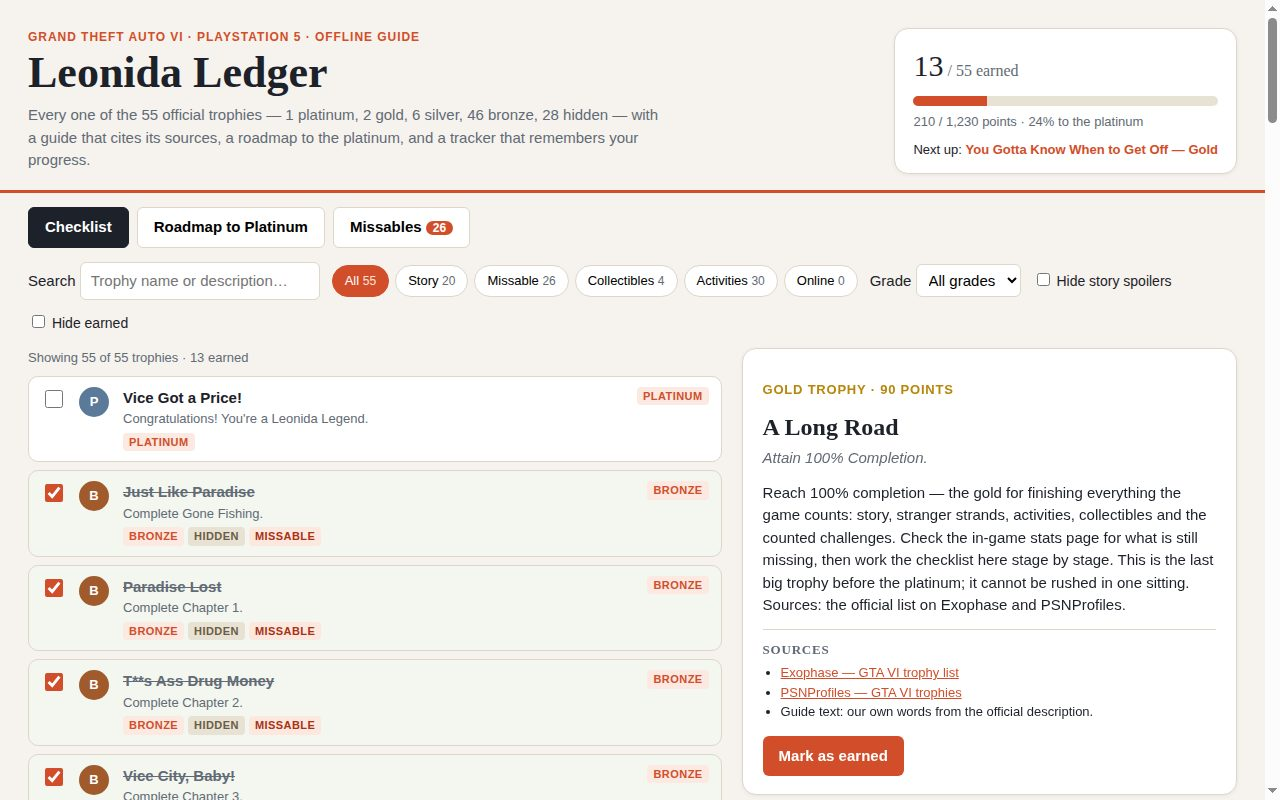
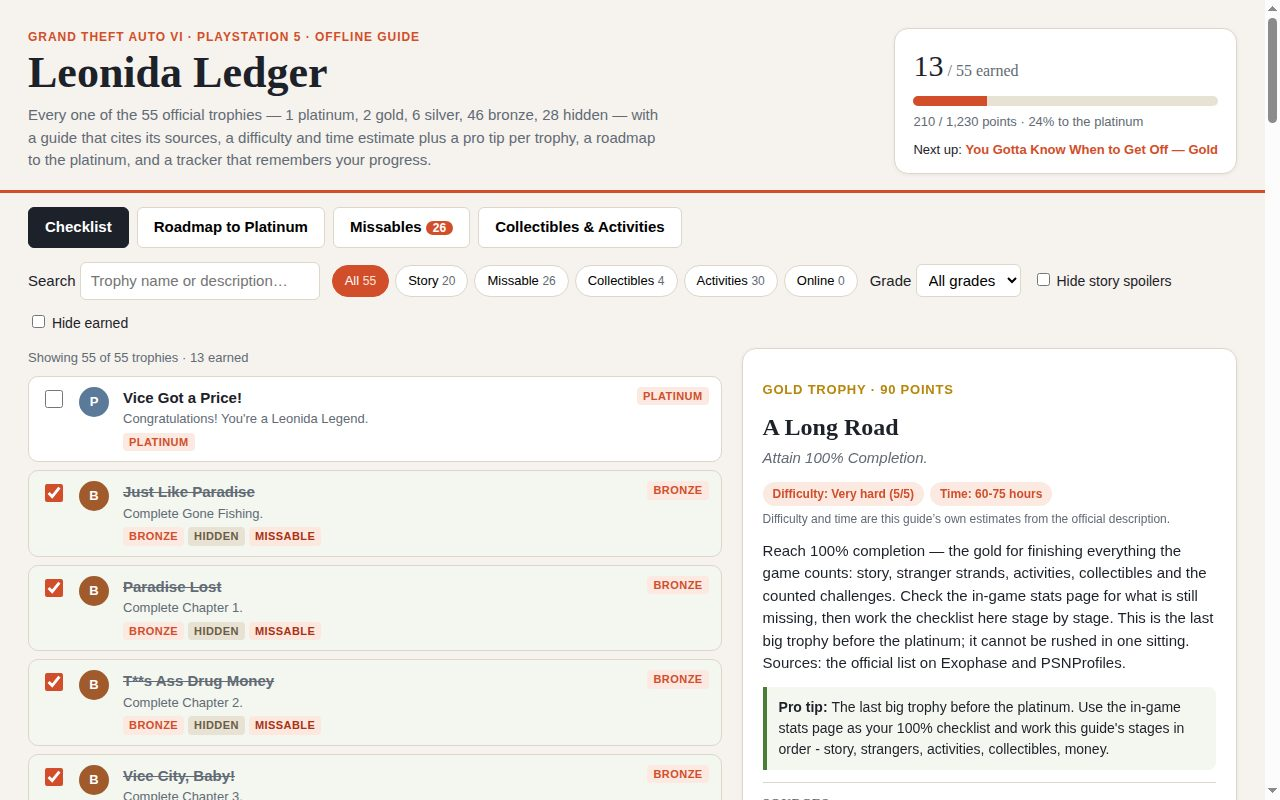
Leonida Ledger v2: deeper guides, richer roadmap, reference section
- Per-trophy difficulty (1-5), time estimate and pro tip for all 55
  trophies (app/data/trophy-notes.json), shown in the detail pane
- Missables grouped by moment with a 'how not to miss it' line on each
- Roadmap stages gain hour estimates, progress bars and interactive
  per-stage checklists (about 60-75 hours in all)
- New Collectibles & Activities reference tab: card sets, WAiNK It,
  meditation spots, vehicles, exploration; counted activities; money
- All 4 screenshots retaken of the improved UI (1280x800, 13/55 earned)

Changed region(s): [[0.5938, 0.5938, 0.9688, 1.0], [0.0312, 0.1562, 0.5, 0.2188], [0.375, 0.25, 0.5312, 0.3125]]

diff --git a/app/js/views.js b/app/js/views.js
@@ -1,6 +1,6 @@
 // trophyViews renders the checklist, the trophy detail pane (guide + sources),
 // the roadmap to the platinum and the missables page from the loaded data.
-import { ROADMAP_STAGES, trophyPoints } from './data.js';
+import { DIFFICULTY_LABEL, MISSABLE_GROUPS, ROADMAP_STAGES, trophyPoints } from './data.js';
 import { displayDescription, displayName, isSpoilerMasked, trophyMatches } from './filters.js';
 
 const GRADE_LABEL = { platinum: 'Platinum', gold: 'Gold', silver: 'Silver', bronze: 'Bronze' };
@@ -104,7 +104,26 @@ export function renderDetail(trophy, sources, store, filters, onToggle, refs) {
   } else {
     if (trophy.target) pane.append(el('p', 'detail-target', `PSN target: ${trophy.target.toLocaleString()}`));
     if (trophy.missable) pane.append(el('p', 'detail-target', '⚠ Missable — tied to a one-time story moment. See the Missables page.'));
+    if (trophy.difficulty) {
+      const chips = el('div', 'detail-chips');
+      chips.append(el('span', 'chip', `Difficulty: ${DIFFICULTY_LABEL[trophy.difficulty] ?? trophy.difficulty} (${trophy.difficulty}/5)`));
+      if (trophy.time) chips.append(el('span', 'chip', `Time: ${trophy.time}`));
+      pane.append(chips);
+      pane.append(el('p', 'chip-note', 'Difficulty and time are this guide’s own estimates from the official description.'));
+    }
     pane.append(el('p', 'detail-guide', trophy.guide));
+    if (trophy.tip) {
+      const tipBox = el('div', 'tip-box');
+      tipBox.append(el('strong', null, 'Pro tip: '));
+      tipBox.append(document.createTextNode(trophy.tip));
+      pane.append(tipBox);
+    }
+    if (trophy.avoid) {
+      const avoidBox = el('div', 'avoid-box');
+      avoidBox.append(el('strong', null, 'How not to miss it: '));
+      avoidBox.append(document.createTextNode(trophy.avoid));
+      pane.append(avoidBox);
+    }
     const srcBox = el('div', 'detail-sources');
     srcBox.append(el('h3', null, 'Sources'));
     const list = el('ul');
@@ -133,21 +152,40 @@ export function renderDetail(trophy, sources, store, filters, onToggle, refs) {
   pane.append(earnBox);
 }
 
-export function renderRoadmap(trophies, store, refs) {
+export function renderRoadmap(trophies, store, onToggle, refs) {
   const pane = refs.roadmapPane;
   pane.replaceChildren();
+  const totalHours = 'About 60–75 hours in all, our estimate — the story is most of it.';
+  pane.append(el('p', 'roadmap-total', totalHours));
   for (const stage of ROADMAP_STAGES) {
     const items = trophies.filter((t) => t.stage === stage.stage);
     const done = items.filter((t) => store.isEarned(t.name)).length;
     const box = el('section', 'stage');
     box.append(el('h2', null, stage.title));
-    const progress = el('p', null, '');
-    progress.append(el('span', 'stage-progress', `${done} / ${items.length} earned in this stage`));
-    box.append(progress);
+    const meta = el('p', 'stage-meta');
+    meta.append(el('span', 'stage-hours', `Estimated: ${stage.hours}`));
+    meta.append(document.createTextNode(' · '));
+    meta.append(el('span', 'stage-progress', `${done} / ${items.length} earned in this stage`));
+    box.append(meta);
+    const bar = el('div', 'stage-bar');
+    const fill = el('span');
+    fill.style.width = items.length ? `${Math.round((done / items.length) * 100)}%` : '0%';
+    bar.append(fill);
+    box.append(bar);
     box.append(el('p', null, stage.text));
-    const list = el('ul');
+    const list = el('ul', 'stage-checklist');
     for (const t of items) {
-      const li = el('li', store.isEarned(t.name) ? 'earned' : null, `${t.name} — ${GRADE_LABEL[t.grade]}${t.missable ? ' · Missable' : ''}`);
+      const earned = store.isEarned(t.name);
+      const li = el('li', earned ? 'earned' : null);
+      const boxInput = document.createElement('input');
+      boxInput.type = 'checkbox';
+      boxInput.checked = earned;
+      boxInput.setAttribute('aria-label', `Mark ${t.name} as earned`);
+      boxInput.addEventListener('change', () => onToggle(t.name));
+      boxInput.addEventListener('click', (event) => event.stopPropagation());
+      li.append(boxInput);
+      const label = el('span', null, `${t.name} — ${GRADE_LABEL[t.grade]}${t.missable ? ' · Missable' : ''}`);
+      li.append(label);
       list.append(li);
     }
     box.append(list);
@@ -163,18 +201,55 @@ export function renderMissables(trophies, store, refs) {
   intro.append(el('p', null, 'A trophy is flagged missable when its official description ties it to one named mission or one-time moment: a chapter, a named story mission, a stranger strand finale, or a single event that does not come back in free roam. Earn these during the moment itself — afterwards the only way back is a mission replay or a new playthrough.'));
   intro.append(el('p', null, `${trophies.filter((t) => t.missable).length} of the 55 trophies are flagged missable. Do the story missables on your first playthrough, in stage order, and check them off here as you go.`));
   pane.append(intro);
-  const list = el('ul', 'trophy-list');
-  for (const trophy of trophies.filter((t) => t.missable)) {
-    const earned = store.isEarned(trophy.name);
-    const li = el('li', `trophy-row${earned ? ' earned' : ''}`);
-    const text = el('div');
-    text.append(el('div', 'trophy-name', trophy.name));
-    text.append(el('div', 'trophy-desc', trophy.description));
-    text.append(flagRow(trophy));
-    li.append(el('span'), medal(trophy), text, el('span', 'flag grade', GRADE_LABEL[trophy.grade]));
-    list.append(li);
+  const byId = new Map(trophies.map((t) => [t.id, t]));
+  for (const group of MISSABLE_GROUPS) {
+    const groupBox = el('section', 'missable-group');
+    groupBox.append(el('h2', null, group.title));
+    groupBox.append(el('p', null, group.text));
+    const list = el('ul', 'trophy-list');
+    for (const id of group.ids) {
+      const trophy = byId.get(id);
+      if (!trophy) continue;
+      const earned = store.isEarned(trophy.name);
+      const li = el('li', `trophy-row${earned ? ' earned' : ''}`);
+      const text = el('div');
+      text.append(el('div', 'trophy-name', trophy.name));
+      text.append(el('div', 'trophy-desc', trophy.description));
+      if (trophy.avoid) {
+        const avoid = el('div', 'avoid-note');
+        avoid.append(el('strong', null, 'How not to miss it: '));
+        avoid.append(document.createTextNode(trophy.avoid));
+        text.append(avoid);
+      }
+      text.append(flagRow(trophy));
+      li.append(el('span'), medal(trophy), text, el('span', 'flag grade', GRADE_LABEL[trophy.grade]));
+      list.append(li);
+    }
+    groupBox.append(list);
+    pane.append(groupBox);
   }
-  pane.append(list);
+}
+
+export function renderReference(reference, refs) {
+  const pane = refs.referencePane;
+  pane.replaceChildren();
+  const intro = el('div', 'missable-intro');
+  intro.append(el('h2', null, 'Collectibles & activities reference'));
+  intro.append(el('p', null, 'What to find, how much of it, and where it counts — built only from the official trophy descriptions. Where a description does not pin down a count or a place, the entry says so instead of inventing one.'));
+  pane.append(intro);
+  for (const section of reference.sections ?? []) {
+    const box = el('section', 'stage');
+    box.append(el('h2', null, section.title));
+    box.append(el('p', null, section.intro));
+    for (const item of section.items ?? []) {
+      const entry = el('div', 'ref-item');
+      entry.append(el('h3', null, item.title));
+      entry.append(el('p', 'ref-counts', item.counts));
+      entry.append(el('p', null, item.tip));
+      box.append(entry);
+    }
+    pane.append(box);
+  }
 }
 
 export function renderSourceLinks(sources, refs) {

diff --git a/app/js/data.js b/app/js/data.js
@@ -1,14 +1,43 @@
 // loadTrophies fetches the official trophy list (names, descriptions, grades) plus
 // this guide's own-words guides, kinds, missable flags and roadmap stages.
 // It loads only data/trophies.json, a file inside app/ — no network at run time.
+// loadNotes fetches data/trophy-notes.json (difficulty, time estimate, tip and
+// missable-avoid line per trophy) and merges it onto the trophies by id.
+// loadReference fetches data/reference.json (collectibles / activities / money).
 export async function loadTrophies() {
   const response = await fetch('data/trophies.json');
   if (!response.ok) throw new Error('Could not load data/trophies.json');
   const doc = await response.json();
   const trophies = Array.isArray(doc) ? doc : doc.trophies;
   const sources = doc.sources ?? {};
+  const notes = await loadNotes();
+  const byId = new Map(notes.map((n) => [n.id, n]));
+  for (const trophy of trophies) {
+    const note = byId.get(trophy.id);
+    if (note) {
+      trophy.difficulty = note.difficulty;
+      trophy.time = note.time;
+      trophy.tip = note.tip;
+      trophy.avoid = note.avoid ?? null;
+    }
+  }
   return { trophies, sources };
 }
+
+export async function loadNotes() {
+  const response = await fetch('data/trophy-notes.json');
+  if (!response.ok) return [];
+  const doc = await response.json();
+  return doc.notes ?? [];
+}
+
+export async function loadReference() {
+  const response = await fetch('data/reference.json');
+  if (!response.ok) return { sections: [] };
+  return response.json();
+}
+
+export const DIFFICULTY_LABEL = { 1: 'Very easy', 2: 'Easy', 3: 'Moderate', 4: 'Hard', 5: 'Very hard' };
 
 export const GRADE_POINTS = { platinum: 180, gold: 90, silver: 30, bronze: 15 };
 
@@ -17,10 +46,18 @@ export function trophyPoints(trophy) {
 }
 
 export const ROADMAP_STAGES = [
-  { stage: 1, title: 'Stage 1 — Story first', text: 'Play Chapters 1–4 and the final mission in order. Every chapter and named-mission trophy lands here, and so do the one-shot story missables — take each named mission when it is offered.' },
-  { stage: 2, title: 'Stage 2 — Strangers & 100%', text: 'Finish the stranger mission strands (Andy, Kenton, Billy, Randy, Tyrone and three more) to unlock the Strangers & Freaks silver, then push toward 100% completion for the A Long Road gold.' },
-  { stage: 3, title: 'Stage 3 — Activities', text: 'Stunts, the Shooting Range, races, drone races, fishing, the arcade, meditation spots and the hunt — the counted activity trophies. The 42 gold medals at the range are the hardest of the set.' },
-  { stage: 4, title: 'Stage 4 — Collectibles & Leonida', text: 'Card sets, WAiNK It locations, vehicle discovery and exploring all of Leonida. One long road trip across the state moves all of these at once.' },
-  { stage: 5, title: 'Stage 5 — Money & mayhem', text: 'Partner robberies, vaults and armored trucks, the one-off moments (Ocean Beach, the showroom, the bowling alley), laundering Marked Bills, spending, garages and Scooter Bros registrations.' },
-  { stage: 6, title: 'Stage 6 — Platinum', text: 'Vice Got a Price! pops the moment the other 54 are earned. Nothing extra — just the checklist, finished.' },
+  { stage: 1, title: 'Stage 1 — Story first', hours: '25–30 hours', text: 'Play Chapters 1–4 and the final mission in order. Every chapter and named-mission trophy lands here, and so do the one-shot story missables — take each named mission when it is offered.' },
+  { stage: 2, title: 'Stage 2 — Strangers & 100%', hours: '8–10 hours', text: 'Finish the stranger mission strands (Andy, Kenton, Billy, Randy, Tyrone and three more) to unlock the Strangers & Freaks silver, then push toward 100% completion for the A Long Road gold.' },
+  { stage: 3, title: 'Stage 3 — Activities', hours: '10–14 hours', text: 'Stunts, the Shooting Range, races, drone races, fishing, the arcade, meditation spots and the hunt — the counted activity trophies. The 42 gold medals at the range are the hardest of the set.' },
+  { stage: 4, title: 'Stage 4 — Collectibles & Leonida', hours: '8–10 hours', text: 'Card sets, WAiNK It locations, vehicle discovery and exploring all of Leonida. One long road trip across the state moves all of these at once.' },
+  { stage: 5, title: 'Stage 5 — Money & mayhem', hours: '8–10 hours', text: 'Partner robberies, vaults and armored trucks, the one-off moments (Ocean Beach, the showroom, the bowling alley), laundering Marked Bills, spending, garages and Scooter Bros registrations.' },
+  { stage: 6, title: 'Stage 6 — Platinum', hours: 'Pops with the rest', text: 'Vice Got a Price! pops the moment the other 54 are earned. Nothing extra — just the checklist, finished.' },
+];
+
+// Missable trophies grouped by the one-time moment that can pass them by, so a
+// player sees at a glance which kind of moment each one hangs on.
+export const MISSABLE_GROUPS = [
+  { title: 'Story chapters & named missions', ids: [2, 3, 4, 5, 6, 7, 8, 9, 10, 11, 12, 13, 48], text: 'Chapter trophies and one-shot named missions. Each fires once, on that mission or chapter — take the mission when the story offers it and play it to the end.' },
+  { title: 'Stranger strand finales', ids: [22, 23, 24, 26, 27], text: 'The final mission of a stranger strand. Play each strand to its end before the endgame — a strand left half-done also stalls the Strangers & Freaks silver.' },
+  { title: 'One-off free-roam moments', ids: [33, 34, 37, 44, 45, 46, 49, 50], text: 'Single moments in free roam that do not come back as missions: a partner escape, a robbery streak, a take-off, a cocktail, a showroom smash, a bowling game, a second attempt, a strange event. Do them while you are passing, not after the story.' },
 ];

diff --git a/app/css/base.css b/app/css/base.css
@@ -119,6 +119,12 @@ h1, h2, h3, .serif { font-family: "Iowan Old Style", Palatino, Georgia, serif; }
 .detail-grade.bronze { color: var(--bronze); }
 .detail-desc { color: var(--muted); font-style: italic; margin: 6px 0 12px; }
 .detail-guide { margin: 0 0 12px; }
+.detail-chips { display: flex; gap: 6px; flex-wrap: wrap; margin: 0 0 4px; }
+.chip { font-size: 12px; font-weight: 700; border-radius: 20px; padding: 3px 10px; background: var(--accent-soft); color: var(--accent); }
+.chip-note { font-size: 12px; color: var(--muted); margin: 0 0 12px; }
+.tip-box { background: #f3f7f0; border-left: 4px solid #4a7c3a; border-radius: 0 8px 8px 0; padding: 10px 12px; margin: 0 0 12px; font-size: 14px; }
+.avoid-box { background: #fde8e0; border-left: 4px solid var(--accent); border-radius: 0 8px 8px 0; padding: 10px 12px; margin: 0 0 12px; font-size: 14px; }
+.avoid-note { color: #7a2c12; font-size: 13px; margin-top: 4px; }
 .detail-target { margin: 0 0 12px; font-weight: 600; }
 .detail-sources { border-top: 1px solid var(--line); padding-top: 10px; font-size: 13px; }
 .detail-sources h3 { margin: 0 0 4px; font-size: 13px; text-transform: uppercase; letter-spacing: .06em; color: var(--muted); }
@@ -128,13 +134,28 @@ h1, h2, h3, .serif { font-family: "Iowan Old Style", Palatino, Georgia, serif; }
 .detail-earn button { font: inherit; font-weight: 700; background: var(--accent); color: #fff; border: none; border-radius: 6px; padding: 9px 16px; cursor: pointer; }
 .detail-earn button.earned { background: var(--ink); }
 .spoiler-mask { color: var(--muted); font-style: italic; }
-.roadmap-pane, .missables-pane { padding: 0 28px 20px; }
+.roadmap-pane, .missables-pane, .reference-pane { padding: 0 28px 20px; }
+.roadmap-total { background: var(--card); border: 1px solid var(--line); border-radius: var(--radius); padding: 12px 18px; margin: 0 0 12px; font-weight: 600; }
 .stage { background: var(--card); border: 1px solid var(--line); border-radius: var(--radius); padding: 16px 20px; margin-bottom: 12px; }
 .stage h2 { margin: 0 0 4px; font-size: 21px; }
 .stage p { margin: 0 0 8px; color: var(--muted); }
 .stage ul { margin: 0; padding-left: 20px; }
 .stage li.earned { color: var(--muted); text-decoration: line-through; }
 .stage .stage-progress { font-weight: 700; color: var(--accent); }
+.stage-meta { margin: 0 0 8px; }
+.stage-hours { font-weight: 700; color: var(--ink); }
+.stage-bar { height: 8px; background: #e8e2d5; border-radius: 6px; overflow: hidden; margin: 0 0 10px; }
+.stage-bar span { display: block; height: 100%; background: var(--accent); }
+.stage-checklist { list-style: none; padding-left: 0; }
+.stage-checklist li { display: flex; gap: 8px; align-items: baseline; padding: 2px 0; }
+.stage-checklist input[type="checkbox"] { width: 16px; height: 16px; accent-color: var(--accent); cursor: pointer; flex: none; }
+.missable-group { margin-bottom: 16px; }
+.missable-group h2 { font-size: 19px; margin: 0 0 4px; }
+.missable-group p { color: var(--muted); margin: 0 0 10px; }
+.ref-item { border-top: 1px solid var(--line); padding: 10px 0 4px; }
+.ref-item h3 { margin: 0 0 2px; font-size: 16px; }
+.ref-item p { margin: 0 0 6px; }
+.ref-counts { font-weight: 700; color: var(--accent); font-size: 13px; }
 .missable-intro { background: var(--card); border: 1px solid var(--line); border-radius: var(--radius); padding: 16px 20px; margin-bottom: 12px; }
 .missable-intro p { margin: 0 0 8px; }
 .footer { border-top: 1px solid var(--line); padding: 18px 28px 28px; }

diff --git a/app/js/main.js b/app/js/main.js
@@ -1,6 +1,6 @@
 // main boots the Leonida Ledger: loads the trophy data, wires the checklist,
 // filters, spoiler setting, roadmap and missables views, and the save controls.
-import { loadTrophies } from './data.js';
+import { loadReference, loadTrophies } from './data.js';
 import { createFilters } from './filters.js';
 import { createProgressStore } from './store.js';
 import {
@@ -9,6 +9,7 @@ import {
   renderDetail,
   renderMissables,
   renderProgress,
+  renderReference,
   renderRoadmap,
   renderSourceLinks,
 } from './views.js';
@@ -31,6 +32,7 @@ const refs = {
   detailPane: document.getElementById('detailPane'),
   roadmapPane: document.getElementById('roadmapPane'),
   missablesPane: document.getElementById('missablesPane'),
+  referencePane: document.getElementById('referencePane'),
   sourceLinks: document.getElementById('sourceLinks'),
   onlineNote: document.getElementById('onlineNote'),
 };
@@ -39,6 +41,7 @@ const store = createProgressStore();
 const filters = createFilters();
 let trophies = [];
 let sources = {};
+let reference = { sections: [] };
 let selectedName = null;
 let currentView = 'checklist';
 
@@ -51,8 +54,9 @@ function renderAll() {
   renderCounts(trophies, refs);
   renderChecklist(trophies, store, filters, selectedName, selectTrophy, refs);
   renderDetail(selectedTrophy(), sources, store, filters, toggleTrophy, refs);
-  renderRoadmap(trophies, store, refs);
+  renderRoadmap(trophies, store, toggleTrophy, refs);
   renderMissables(trophies, store, refs);
+  renderReference(reference, refs);
 }
 
 function selectTrophy(name, keepDetail) {
@@ -79,6 +83,7 @@ function showView(view) {
   document.querySelector('.toolbar').style.display = checklistVisible ? '' : 'none';
   refs.roadmapPane.hidden = view !== 'roadmap';
   refs.missablesPane.hidden = view !== 'missables';
+  refs.referencePane.hidden = view !== 'reference';
   refs.onlineNote.hidden = filters.kind !== 'online';
   if (view !== 'checklist') history.replaceState(null, '', `#${view}`);
 }
@@ -149,7 +154,7 @@ document.getElementById('resetBtn').addEventListener('click', () => {
 
 function applyHash() {
   const hash = decodeURIComponent(location.hash);
-  if (hash === '#roadmap' || hash === '#missables') {
+  if (hash === '#roadmap' || hash === '#missables' || hash === '#reference') {
     showView(hash.slice(1));
   } else if (hash.startsWith('#trophy-')) {
     const name = hash.slice('#trophy-'.length);
@@ -167,6 +172,7 @@ try {
   const doc = await loadTrophies();
   trophies = doc.trophies;
   sources = doc.sources;
+  reference = await loadReference();
   renderSourceLinks(sources, refs);
   renderAll();
   applyHash();

diff --git a/app/index.html b/app/index.html
@@ -12,7 +12,7 @@
   <div class="masthead-text">
     <p class="kicker">Grand Theft Auto VI &middot; PlayStation 5 &middot; Offline guide</p>
     <h1>Leonida Ledger</h1>
-    <p class="subtitle">Every one of the 55 official trophies — 1 platinum, 2 gold, 6 silver, 46 bronze, 28 hidden — with a guide that cites its sources, a roadmap to the platinum, and a tracker that remembers your progress.</p>
+    <p class="subtitle">Every one of the 55 official trophies — 1 platinum, 2 gold, 6 silver, 46 bronze, 28 hidden — with a guide that cites its sources, a difficulty and time estimate plus a pro tip per trophy, a roadmap to the platinum, and a tracker that remembers your progress.</p>
   </div>
   <div class="progress-card" id="progressCard" aria-live="polite">
     <p class="progress-count"><span id="earnedCount">0</span><span class="of"> / 55 earned</span></p>
@@ -25,6 +25,7 @@
   <button type="button" class="tab active" data-view="checklist" id="tab-checklist">Checklist</button>
   <button type="button" class="tab" data-view="roadmap" id="tab-roadmap">Roadmap to Platinum</button>
   <button type="button" class="tab" data-view="missables" id="tab-missables">Missables <span class="pill" id="missableCount"></span></button>
+  <button type="button" class="tab" data-view="reference" id="tab-reference">Collectibles &amp; Activities</button>
 </nav>
 <section class="toolbar" aria-label="Filters and settings">
   <label class="search">Search <input id="search" type="search" placeholder="Trophy name or description…" autocomplete="off"></label>
@@ -61,6 +62,7 @@
 </main>
 <section class="roadmap-pane" id="roadmapPane" hidden aria-label="Roadmap to the platinum"></section>
 <section class="missables-pane" id="missablesPane" hidden aria-label="Missable trophies"></section>
+<section class="reference-pane" id="referencePane" hidden aria-label="Collectibles and activities reference"></section>
 <footer class="footer">
   <div class="save-row">
     <button type="button" id="exportBtn">Export progress (.json)</button>

diff --git a/main.ts b/main.ts
@@ -19,9 +19,13 @@ import { join } from 'node:path';
 import { fileURLToPath } from 'node:url';
 import { buildDossier } from './vendor/makefun-frontend.ts';
 
-// Leonida Ledger: this entry's guide is a full tracker — 55 cited guides, a roadmap
+// Leonida Ledger v2: this entry's guide is a full tracker — 55 cited guides, a roadmap
 // to the platinum, missable flags, filters and a spoiler setting in app/, with
-// screenshots of each view in screenshots/. The hand-in below is unchanged plumbing.
+// screenshots of each view in screenshots/. v2 adds per-trophy difficulty and time
+// estimates plus a concrete tip in app/data/trophy-notes.json, per-stage checklists
+// with hour estimates on the roadmap, avoid-notes on the missables page, and a
+// collectibles / activities / money reference in app/data/reference.json.
+// The hand-in below is unchanged plumbing.
 const here = fileURLToPath(new URL('.', import.meta.url));
 const out = process.env.MAKEFUN_OUTPUT_DIR ?? '/output';
 
@@ -33,6 +37,9 @@ if (existsSync(join(here, 'screenshots'))) cpSync(join(here, 'screenshots'), joi
 // The scorer's own caps (reference/gate.json): only text_max_bytes shapes the bytes; the others refuse an entry the
 // scorer would refuse (more than 4 screenshots or one over 256 KiB; more than 993 files and directories in app/ or
 // 48 MiB of app files: app/ counts beside /output's own 1000-entry cap, its screenshots/ and dossier.json).
+// v2: app/data/trophy-notes.json (difficulty, time, tip, avoid per trophy) and
+// app/data/reference.json (collectibles / activities / money) are copied with app/ by the cpSync above —
+// they are plain data files the app fetches at run time, inside app/, so they need no special handling here.
 writeFileSync(
   join(out, 'dossier.json'),
   buildDossier(out, { text_max_bytes: 163840, screenshots: { max: 4, max_bytes: 262144 }, app_max_files: 993, app_max_bytes: 50331648 }),
